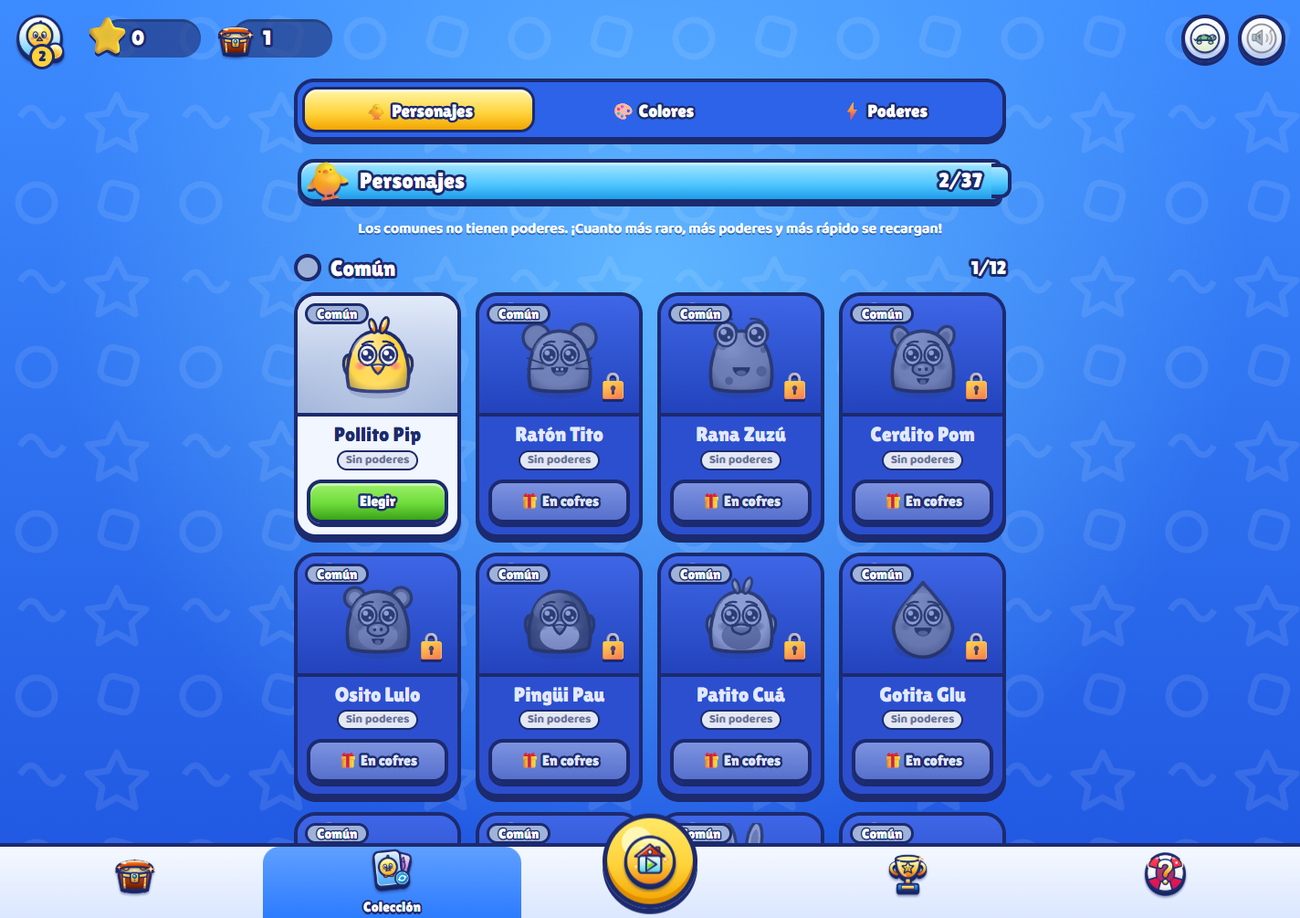
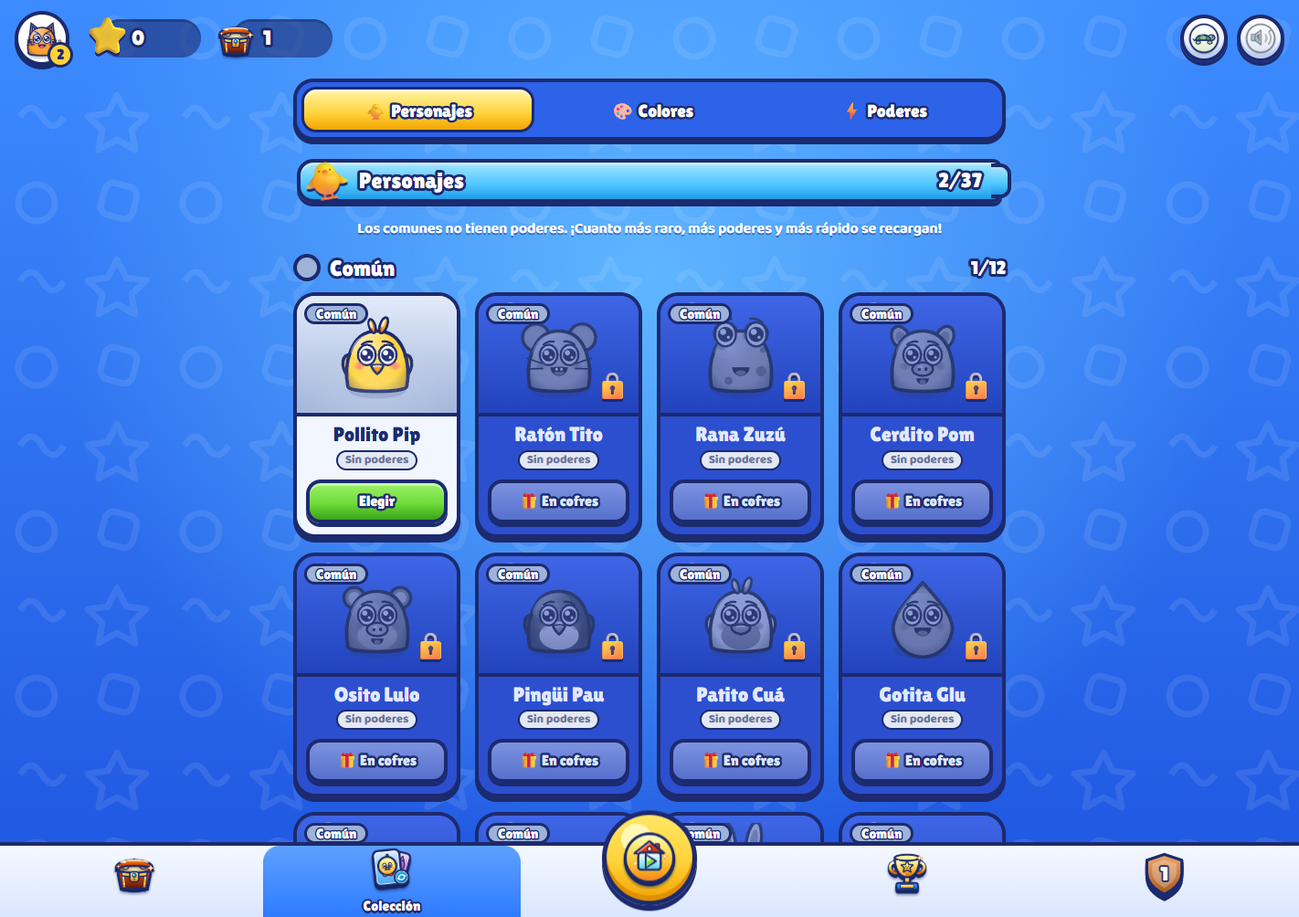
Niveles de personaje, foto de perfil del personaje elegido y ranking con todos los jugadores
- Los personajes raros, épicos, legendarios y míticos suben del nivel 1 al 10 con repetidos de los cofres; cada nivel da un 6 % más de alcance a sus poderes. Una de cada cuatro tiradas con premios nuevos da un repetido que aún puede subir.
- La foto de perfil y la del ranking mundial son el personaje elegido.
- Al abrir el juego con sesión iniciada, el jugador se publica en el ranking; los perfiles anteriores a los rangos empiezan con copas según su historial.
- En línea, el servidor recibe y valida el nivel del personaje.

diff --git a/engine.js b/engine.js
@@ -104,6 +104,9 @@ export const RANKS = [
   { id: 'leyenda', name: 'Leyenda', colors: ['#fff3a0', '#ff4f8b'] }
 ];
 export const TIERS = RANKS.length * 3;
+// Trophies for a profile that played before the ranks existed: victories, catches and its
+// best zone, capped at 1.000 (Esmeralda 1 is 1.056).
+export const startingPoints = p => Math.min(1000, Math.floor(p.wins * 12 + p.totalKills * 2 + p.best));
 export const tierStart = tier => 40 * tier + 4 * tier * tier;
 // { tier, rank, division, name, start, next } for a trophy count; `next` is null at the top.
 export function rankFor(points) {
@@ -142,7 +145,7 @@ export function crossedCells(x0, y0, x1, y1) {
 export const emptyChests = () => Object.fromEntries(Object.keys(CHESTS).map(type => [type, 0]));
 export function freshProfile() {
   // New players start with a rare chest so their first character with a power is one tap away.
-  return { version: 1, name: '', updatedAt: 0, points: 0, bits: 0, xp: 0, wins: 0, totalKills: 0, best: 0, nemesis: '', skin: 'interceptor', trail: 'cyan', skins: [], trails: ['cyan'], easy: false, chests: { ...emptyChests(), raro: 1 }, freeChestAt: 0 };
+  return { version: 1, name: '', updatedAt: 0, points: 0, bits: 0, xp: 0, wins: 0, totalKills: 0, best: 0, nemesis: '', skin: 'interceptor', trail: 'cyan', skins: [], trails: ['cyan'], copies: {}, easy: false, chests: { ...emptyChests(), raro: 1 }, freeChestAt: 0 };
 }
 // Player nicknames: 3 to 14 letters, digits, spaces, "_" or "-". Returns '' when unusable.
 export function cleanName(text) {
@@ -183,8 +186,18 @@ export function parseProfile(raw) {
   const latest = Date.now() + FREE_CHEST_HOURS * 3600000;
   result.freeChestAt = Number.isFinite(data.freeChestAt) && data.freeChestAt > 0 ? Math.min(data.freeChestAt, latest) : 0;
   result.updatedAt = Number.isFinite(data.updatedAt) && data.updatedAt > 0 ? data.updatedAt : 0;
-  // Older saves have no trophies yet.
+  // Repeats collected per character (its level); older saves have none.
+  result.copies = {};
+  if (data.copies !== undefined) {
+    if (typeof data.copies !== 'object' || data.copies === null || Array.isArray(data.copies)) throw new Error('Niveles inválidos');
+    for (const [id, value] of Object.entries(data.copies)) {
+      if (!levelsUp(CHARACTERS.find(c => c.id === id)) || !count(value) || value > 1000) throw new Error('Niveles inválidos');
+      if (value) result.copies[id] = Math.floor(value);
+    }
+  }
+  // Saves from before the ranks start with trophies earned from their past results.
   if (data.points !== undefined) { if (!count(data.points) || data.points > 1e6) throw new Error('Copas inválidas'); result.points = Math.floor(data.points); }
+  else result.points = startingPoints(result);
   return { ...result, name: cleanName(data.name), easy: data.easy === true, nemesis: typeof data.nemesis === 'string' ? data.nemesis.slice(0, 40) : '', skin: data.skin, trail: data.trail };
 }
 // Every chest prize: characters (except the starter) and the special trail colors.
@@ -198,15 +211,42 @@ export function rollRarity(type, random = Math.random) {
   for (const [rarity, weight] of odds) { roll -= weight; if (roll < 0) return rarity; }
   return odds.at(-1)[0];
 }
-// Opens one chest into the profile. Unowned prizes of the rolled rarity are preferred,
-// so players rarely get repeats; a repeat is converted into stars.
+// Character levels: rare, epic, legendary and mythic characters level up (1 → 10) with
+// repeats from chests. Going from level n to n+1 takes ceil(n / 2) repeats (25 in all),
+// and every level stretches the reach of the character's powers by 6%.
+export const CHARACTER_MAX_LEVEL = 10, POWER_STEP = .06;
+// While there are still new prizes of the rolled rarity, this share of chests gives a
+// repeat of an owned character that can still level up.
+export const REPEAT_CHANCE = .25;
+export const levelsUp = character => !!character && character.rarity !== 'comun';
+export const copiesFor = level => { let total = 0; for (let l = 1; l < level; l++) total += Math.ceil(l / 2); return total; };
+export function characterLevel(profile, id) {
+  if (!levelsUp(CHARACTERS.find(c => c.id === id))) return 1;
+  const copies = profile.copies?.[id] || 0;
+  let level = 1;
+  while (level < CHARACTER_MAX_LEVEL && copies >= copiesFor(level + 1)) level++;
+  return level;
+}
+export const powerScale = level => 1 + POWER_STEP * (clamp(Math.floor(level) || 1, 1, CHARACTER_MAX_LEVEL) - 1);
+// Opens one chest into the profile. Unowned prizes of the rolled rarity come first; a repeat
+// of a character that can still level up adds a level step, any other repeat becomes stars.
 export function openChest(profile, type, random = Math.random) {
   const rarity = rollRarity(type, random), pool = PRIZES.filter(p => p.rarity === rarity);
-  const fresh = pool.filter(p => p.type === 'skins' ? !ownsCharacter(profile, p.id) : !profile.trails.includes(p.id));
-  const options = fresh.length ? fresh : pool, prize = options[Math.floor(random() * options.length)];
-  const duplicate = !fresh.length, refund = duplicate ? RARITIES[rarity].refund : 0;
-  if (duplicate) profile.bits += refund; else profile[prize.type].push(prize.id);
-  return { prize, rarity, duplicate, refund };
+  const owned = p => p.type === 'skins' ? ownsCharacter(profile, p.id) : profile.trails.includes(p.id);
+  const growing = p => p.type === 'skins' && levelsUp(p) && owned(p) && characterLevel(profile, p.id) < CHARACTER_MAX_LEVEL;
+  const fresh = pool.filter(p => !owned(p)), repeats = pool.filter(growing);
+  const options = fresh.length && !(repeats.length && random() < REPEAT_CHANCE) ? fresh : repeats.length ? repeats : pool;
+  const prize = options[Math.floor(random() * options.length)];
+  if (!owned(prize)) { profile[prize.type].push(prize.id); return { prize, rarity, duplicate: false, refund: 0 }; }
+  if (growing(prize)) {
+    const before = characterLevel(profile, prize.id);
+    profile.copies = { ...profile.copies, [prize.id]: (profile.copies?.[prize.id] || 0) + 1 };
+    const level = characterLevel(profile, prize.id);
+    return { prize, rarity, duplicate: true, refund: 0, level, levelUp: level > before };
+  }
+  const refund = RARITIES[rarity].refund;
+  profile.bits += refund;
+  return { prize, rarity, duplicate: true, refund };
 }
 // Bots pick distinct characters; rarer ones show up less often.
 const BOT_WEIGHTS = { comun: 40, raro: 30, epico: 18, legendario: 9, mitico: 3 };
@@ -229,7 +269,7 @@ export class Arena {
     this.wallRange = 40 / CELL_PIXELS;
     this.events = []; this.orbs = []; this.projectiles = []; this.time = 0; this.revision = 0; this.orbRevision = 0;
     this.ended = false; this.won = false; this.bits = 0; this.xp = 0; this.respawnAt = 0;
-    const humans = (options.humans || [{ skin: profile.skin, color: TRAILS.find(t => t.id === profile.trail)?.color || COLORS[0], name: 'Tú' }]).slice(0, MAX_PLAYERS);
+    const humans = (options.humans || [{ skin: profile.skin, color: TRAILS.find(t => t.id === profile.trail)?.color || COLORS[0], name: 'Tú', level: characterLevel(profile, profile.skin) }]).slice(0, MAX_PLAYERS);
     const cast = humans.map(h => characterFor(h.skin));
     for (let id = humans.length; id < SPAWNS.length; id++) cast.push(this.botCharacter(cast));
     // Every actor needs a distinct trail color; humans keep theirs unless it is already taken.
@@ -241,7 +281,9 @@ export class Arena {
       x: x + .5, y: y + .5, angle: -Math.PI / 2, desired: -Math.PI / 2,
       alive: true, trail: [], count: 0, kills: 0, best: 0, bits: 0, xp: 0, lastCell: cell(x, y),
       timers: {}, ready: {}, aiAt: 0, route: [], skin: cast[id].id, rarity: cast[id].rarity, powers: [...cast[id].powers],
-      stunUntil: 0, frozenUntil: 0, harvestUntil: 0, lastKiller: -1, wallSurge: false, wallSparkAt: 0
+      stunUntil: 0, frozenUntil: 0, harvestUntil: 0, lastKiller: -1, wallSurge: false, wallSparkAt: 0,
+      // Robots play at level 1; a human's character level stretches its powers.
+      reach: powerScale(id < humans.length ? humans[id].level : 1)
     }));
     for (const actor of this.actors) { this.seed(actor); actor.best = actor.count; }
     for (let i = 0; i < 45; i++) this.spawnOrb();
@@ -278,7 +320,7 @@ export class Arena {
       Object.assign(actor, {
         name: character.name, skin: character.id, rarity: character.rarity, powers: [...character.powers],
         x: spot.x + .5, y: spot.y + .5, angle, desired: angle, alive: true, trail: [], kills: 0, lastCell: cell(spot.x, spot.y),
-        timers: {}, ready: {}, aiAt: 0, route: [], stunUntil: 0, frozenUntil: 0, harvestUntil: 0, wallSurge: false
+        timers: {}, ready: {}, aiAt: 0, route: [], stunUntil: 0, frozenUntil: 0, harvestUntil: 0, wallSurge: false, reach: 1
       });
       this.seed(actor); actor.best = actor.count;
       this.emit('spawn', { id: actor.id, x: actor.x, y: actor.y });
@@ -327,13 +369,14 @@ export class Arena {
     const actor = this.actors[id], definition = POWERS[skill];
     if (!actor?.alive || !definition || this.ended || (actor.ready[skill] || 0) > this.time) return false;
     if (!actor.powers?.includes(skill)) return false;
-    actor.timers[skill] = this.time + definition.duration;
+    const reach = actor.reach || 1;
+    actor.timers[skill] = this.time + definition.duration * (skill === 'dash' || skill === 'shield' || skill === 'ghost' ? reach : 1);
     actor.ready[skill] = this.time + this.cooldown(actor, skill);
     this.emit('ability', { id, skill, x: actor.x, y: actor.y });
-    if (skill === 'shoot') this.projectiles.push({ owner: id, x: clamp(actor.x + Math.cos(actor.angle) * .9, .01, WIDTH - .01), y: clamp(actor.y + Math.sin(actor.angle) * .9, .01, HEIGHT - .01), angle: actor.angle, life: SHOT_LIFE });
-    if (skill === 'bomb') this.splash(actor, cell(actor.x, actor.y), 3.6, 'bomb');
+    if (skill === 'shoot') this.projectiles.push({ owner: id, x: clamp(actor.x + Math.cos(actor.angle) * .9, .01, WIDTH - .01), y: clamp(actor.y + Math.sin(actor.angle) * .9, .01, HEIGHT - .01), angle: actor.angle, life: SHOT_LIFE * reach, paint: SHOT_PAINT * reach });
+    if (skill === 'bomb') this.splash(actor, cell(actor.x, actor.y), 3.6 * reach, 'bomb');
     if (skill === 'freeze') {
-      for (const other of this.actors) if (other !== actor && other.alive && !this.active(other, 'shield') && Math.hypot(other.x - actor.x, other.y - actor.y) < 8) {
+      for (const other of this.actors) if (other !== actor && other.alive && !this.active(other, 'shield') && Math.hypot(other.x - actor.x, other.y - actor.y) < 8 * reach) {
         other.stunUntil = other.frozenUntil = this.time + FREEZE_TIME;
       }
       this.emit('freeze', { id, x: actor.x, y: actor.y });
@@ -443,7 +486,7 @@ export class Arena {
     if (!actor.alive || index === actor.lastCell) return;
     actor.lastCell = index;
     // Rodillo: paint a 3×3 brush directly instead of leaving an exposed trail.
-    if (this.active(actor, 'paint') && this.grid[index] !== actor.id) { this.splash(actor, index, 1.5); return; }
+    if (this.active(actor, 'paint') && this.grid[index] !== actor.id) { this.splash(actor, index, 1.5 * (actor.reach || 1)); return; }
     // Self-crossings are harmless. Masks allow overlapping trails without erasing rivals.
     if (this.grid[index] === actor.id) { if (actor.trail.length) this.capture(actor); }
     else {
@@ -550,7 +593,7 @@ export class Arena {
       if (done) {
         const x = clamp(nx, .01, WIDTH - .01), y = clamp(ny, .01, HEIGHT - .01);
         this.projectiles.splice(i, 1); this.emit('splat', { x, y, color: owner.color });
-        if (owner.alive && !this.ended) this.splash(owner, cell(x, y), SHOT_PAINT, 'shot');
+        if (owner.alive && !this.ended) this.splash(owner, cell(x, y), shot.paint || SHOT_PAINT, 'shot');
       }
       if (this.ended) return;
     }
@@ -592,7 +635,7 @@ export class Arena {
       if (!actor.alive || this.ended) continue;
       for (let i = this.orbs.length - 1; i >= 0; i--) {
         const orb = this.orbs[i], distance = Math.hypot(orb.x - actor.x, orb.y - actor.y);
-        if (this.active(actor, 'magnet') && distance < 14) {
+        if (this.active(actor, 'magnet') && distance < 14 * (actor.reach || 1)) {
           const move = Math.min(distance, dt * 12);
           orb.x += (actor.x - orb.x) / (distance || 1) * move; this.orbRevision++;
           orb.y += (actor.y - orb.y) / (distance || 1) * move;

diff --git a/game.js b/game.js
@@ -1,4 +1,4 @@
-import { Arena, WIDTH, HEIGHT, SIZE, POWERS, CHARACTERS, RARITIES, RARITY_ORDER, CHESTS, FREE_CHEST_HOURS, TRAILS, RANKS, rankFor, rankChange, tierStart, characterFor, ownsCharacter, openChest, freshProfile, parseProfile, cleanName, levelFor, levelXP } from './engine.js';
+import { Arena, WIDTH, HEIGHT, SIZE, POWERS, CHARACTERS, RARITIES, RARITY_ORDER, CHESTS, FREE_CHEST_HOURS, TRAILS, RANKS, rankFor, rankChange, tierStart, CHARACTER_MAX_LEVEL, characterLevel, copiesFor, levelsUp, powerScale, characterFor, ownsCharacter, openChest, freshProfile, parseProfile, cleanName, levelFor, levelXP } from './engine.js';
 import { Renderer, shade } from './renderer.js';
 import { Connection, Mirror, defaultServer, rememberServer, normalizeServer } from './online.js';
 import * as cloud from './cloud.js';
@@ -311,6 +311,17 @@ const COLLECTION = {
   trails: { icon: '🎨', title: 'Colores', note: 'Tu color pinta tu camino y tu zona. ¡Busca más en los cofres!' },
   powers: { icon: '⚡', title: 'Poderes', note: 'Cada personaje trae sus propios poderes. Elige uno con poderes en la pestaña Personajes.' }
 };
+// Level of a rare-or-better character: its level, the repeats towards the next one and the
+// extra reach of its powers.
+function levelInfo(id) {
+  const level = characterLevel(profile, id), copies = profile.copies[id] || 0;
+  return { level, max: level >= CHARACTER_MAX_LEVEL, have: copies - copiesFor(level), need: copiesFor(level + 1) - copiesFor(level), bonus: Math.round((powerScale(level) - 1) * 100) };
+}
+const levelChip = id => `<span class="level-chip">Nv ${characterLevel(profile, id)}</span>`;
+function levelBlock(id) {
+  const info = levelInfo(id);
+  return `<div class="char-level">${levelChip(id)}<div class="copies"><i style="width:${info.max ? 100 : info.have / info.need * 100}%"></i><b>${info.max ? '¡NIVEL MÁXIMO!' : `🧩 ${info.have}/${info.need}`}</b></div>${info.bonus ? `<small>Poderes +${info.bonus}% de alcance</small>` : '<small>Los repetidos lo suben de nivel</small>'}</div>`;
+}
 function renderHangar() {
   const content = [];
   let owned = 0, total = 0;
@@ -321,7 +332,7 @@ function renderHangar() {
     for (const c of group) {
       const unlocked = ownsCharacter(profile, c.id);
       const lock = c.level > 1 ? '🔒 Nivel ' + c.level + ' o cofre' : '🎁 En cofres';
-      content.push(`<article class="hangar-card card rarity-${rarity} ${unlocked ? '' : 'locked'}"><span class="card-badge">${RARITIES[rarity].name}</span><div class="card-art">${skinArt(c.id)}</div><h3>${c.name}</h3><div class="power-list">${powerIcons(c.powers)}</div><div class="card-actions"><button data-skin="${c.id}" ${unlocked ? '' : 'disabled'} class="${profile.skin === c.id ? 'equipped' : ''}">${profile.skin === c.id ? '✓ Elegido' : unlocked ? 'Elegir' : lock}</button></div></article>`);
+      content.push(`<article class="hangar-card card rarity-${rarity} ${unlocked ? '' : 'locked'}"><span class="card-badge">${RARITIES[rarity].name}</span><div class="card-art">${skinArt(c.id)}</div><h3>${c.name}</h3><div class="power-list">${powerIcons(c.powers)}</div>${unlocked && levelsUp(c) ? levelBlock(c.id) : ''}<div class="card-actions"><button data-skin="${c.id}" ${unlocked ? '' : 'disabled'} class="${profile.skin === c.id ? 'equipped' : ''}">${profile.skin === c.id ? '✓ Elegido' : unlocked ? 'Elegir' : lock}</button></div></article>`);
     }
   }
   if (hangarTab === 'trails') for (const trail of TRAILS) {
@@ -357,6 +368,8 @@ function renderMenu() {
   const level = levelFor(profile.xp), start = levelXP(level), end = levelXP(level + 1);
   const xpText = `${number(profile.xp - start)} / ${number(end - start)} XP`, xpWidth = Math.min(100, (profile.xp - start) / (end - start) * 100) + '%';
   $('menu-level').textContent = level;
+  // The profile picture is the character currently chosen.
+  $('menu-avatar').src = renderer.portraitURL({ skin: profile.skin, color: playerColor() });
   $('menu-bits').textContent = number(profile.bits);
   $('menu-crates').textContent = totalChests();
   $('home-level').textContent = level; $('home-xp-label').textContent = xpText; $('home-xp').style.width = xpWidth;
@@ -373,7 +386,7 @@ function renderMenu() {
   $('stat-wins').textContent = number(profile.wins); $('stat-kills').textContent = number(profile.totalKills);
   $('stat-best').textContent = Math.round(profile.best) + '%';
   const current = characterFor(profile.skin);
-  $('home-character').innerHTML = `${rarityChip(current.rarity)} <b>${current.name}</b> <span class="home-powers">${powerIcons(current.powers)}</span>`;
+  $('home-character').innerHTML = `${rarityChip(current.rarity)} <b>${current.name}</b> ${levelsUp(current) ? levelChip(current.id) : ''} <span class="home-powers">${powerIcons(current.powers)}</span>`;
   renderEasy(); renderChests(); renderHangar(); renderAccount(); renderRanks();
 }
 let screen = 'home';
@@ -406,7 +419,7 @@ document.querySelectorAll('[data-hangar]').forEach(button => button.onclick = ()
 // `sequence` ({ left, next, actions, wire, gen }) is used after a match: each reveal moves on to
 // the next chest by itself, and the last one shows the match buttons instead of "close".
 function revealChest(type, sequence = null) {
-  const result = openChest(profile, type), { prize, rarity, duplicate, refund } = result;
+  const result = openChest(profile, type), { prize, rarity, duplicate, refund, level, levelUp } = result;
   save(true); renderMenu();
   dialog(`<div class="crate-reward"><p class="eyebrow">${CHESTS[type].name}</p><div class="crate-opening" id="crate-spinner">${chestSVG(type, 150)}</div><p>¿Qué habrá dentro…?</p></div>`);
   setTimeout(() => {
@@ -414,8 +427,10 @@ function revealChest(type, sequence = null) {
     tone(rarity === 'legendario' || rarity === 'mitico' ? 'level' : 'capture');
     const sparkles = Array.from({ length: 14 }, (_, i) => { const a = i / 14 * Math.PI * 2; return `<i style="--dx:${Math.round(Math.cos(a) * 160)}px;--dy:${Math.round(Math.sin(a) * 120)}px">${i % 2 ? '⭐' : '✨'}</i>`; }).join('');
     const isCharacter = prize.type === 'skins', more = profile.chests[type];
-    const detail = duplicate ? `¡Ya lo tenías! Te damos ${refund} ⭐ a cambio.` : isCharacter ? (prize.powers.length ? '¡Nuevo personaje con poderes!' : '¡Nuevo amigo! Los comunes no tienen poderes, pero son muy simpáticos.') : '¡Ya puedes pintar con este color!';
-    $('dialog-content').innerHTML = `<div class="crate-reward reveal-${rarity}"><div class="sparkles" aria-hidden="true">${sparkles}</div><p class="rarity-banner rarity-${rarity}">¡${RARITIES[rarity].name.toUpperCase()}!</p><div class="crate-opening revealed">${isCharacter ? skinArt(prize.id, 160) : swatchArt(prize.color)}</div><h2>${prize.name}</h2>${isCharacter ? `<div class="power-list">${powerIcons(prize.powers)}</div>` : ''}<p>${detail}</p><div class="dialog-buttons">${isCharacter && !duplicate ? '<button id="equip-prize" class="dialog-button">✓ ¡Usar ahora!</button>' : ''}${sequence ? (sequence.next ? `<button id="next-chest" class="dialog-button">🎁 Siguiente (${sequence.left})</button>` : '') : `${more ? `<button id="open-again" class="dialog-button">🎁 Abrir otro (${more})</button>` : ''}<button id="close-crate" class="dialog-button secondary">¡GENIAL! 🎉</button>`}</div>${sequence && !sequence.next ? sequence.actions : ''}</div>`;
+    const growth = level && levelInfo(prize.id);
+    const detail = duplicate && level ? (levelUp ? `¡Repetido! ${prize.name} sube al nivel ${level} ⬆ Sus poderes llegan un ${growth.bonus}% más lejos.` : `¡Repetido! +1 🧩 para ${prize.name}: ${growth.have}/${growth.need} para el nivel ${level + 1}.`)
+      : duplicate ? `¡Ya lo tenías! Te damos ${refund} ⭐ a cambio.` : isCharacter ? (prize.powers.length ? '¡Nuevo personaje con poderes!' : '¡Nuevo amigo! Los comunes no tienen poderes, pero son muy simpáticos.') : '¡Ya puedes pintar con este color!';
+    $('dialog-content').innerHTML = `<div class="crate-reward reveal-${rarity}"><div class="sparkles" aria-hidden="true">${sparkles}</div><p class="rarity-banner rarity-${rarity}">¡${RARITIES[rarity].name.toUpperCase()}!</p><div class="crate-opening revealed">${isCharacter ? skinArt(prize.id, 160) : swatchArt(prize.color)}</div><h2>${prize.name}</h2>${isCharacter ? `<div class="power-list">${powerIcons(prize.powers)}</div>` : ''}${level ? levelBlock(prize.id) : ''}<p>${detail}</p><div class="dialog-buttons">${isCharacter && !duplicate ? '<button id="equip-prize" class="dialog-button">✓ ¡Usar ahora!</button>' : ''}${sequence ? (sequence.next ? `<button id="next-chest" class="dialog-button">🎁 Siguiente (${sequence.left})</button>` : '') : `${more ? `<button id="open-again" class="dialog-button">🎁 Abrir otro (${more})</button>` : ''}<button id="close-crate" class="dialog-button secondary">¡GENIAL! 🎉</button>`}</div>${sequence && !sequence.next ? sequence.actions : ''}</div>`;
     if (sequence) {
       // The next chest opens by itself after a moment; choosing a character waits for a tap.
       let advance = 0;
@@ -798,7 +813,8 @@ function renderRanks() {
     : `<ol class="world-ranking">${leaderboard.rows.map((row, i) => {
         // Names come from other players' devices: only cleaned text reaches the page.
         const points = Math.max(0, Math.floor(Number(row.points) || 0)), me = account && row.uid === account.uid;
-        return `<li class="${me ? 'me' : ''}"><span class="place">${i + 1}</span>${rankBadge(rankFor(points).tier, 38)}<b>${cleanName(row.name) || 'Jugador'}${me ? ' (tú)' : ''}</b><span class="points">${number(points)} 🏆</span></li>`;
+        const skin = CHARACTERS.some(c => c.id === row.skin) ? row.skin : 'interceptor';
+        return `<li class="${me ? 'me' : ''}"><span class="place">${i + 1}</span><img class="rank-avatar" src="${renderer.portraitURL({ skin, color: '#2fa8ff' }, 40)}" alt="">${rankBadge(rankFor(points).tier, 38)}<b>${cleanName(row.name) || 'Jugador'}${me ? ' (tú)' : ''}</b><span class="points">${number(points)} 🏆</span></li>`;
       }).join('')}</ol>`;
   $('rank-list').innerHTML = join + body;
   if ($('rank-login')) $('rank-login').onclick = openAccount;
@@ -910,7 +926,10 @@ async function restoreAccount() {
   if (!cloud.available) return;
   try { account = await cloud.currentAccount(); } catch { account = null; }
   renderAccount();
-  if (account) await syncWithCloud(false);
+  if (!account) return;
+  await syncWithCloud(false);
+  // Every signed-in player who opens the game appears in the world ranking, even before playing.
+  publishRank();
 }
 
 // ---------- Online play ----------
@@ -948,7 +967,8 @@ async function joinOnline(kind, code = '') {
   }
   online.private = kind !== 'quick'; online.lobby = null;
   const character = characterFor(profile.skin);
-  online.connection.send({ t: kind, code, name: profile.name, skin: ownsCharacter(profile, character.id) ? character.id : 'interceptor', color: playerColor(), easy: profile.easy === true });
+  const skin = ownsCharacter(profile, character.id) ? character.id : 'interceptor';
+  online.connection.send({ t: kind, code, name: profile.name, level: characterLevel(profile, skin), skin, color: playerColor(), easy: profile.easy === true });
 }
 function disconnect() {
   if (!online) return;

diff --git a/tests/engine.test.js b/tests/engine.test.js
@@ -1,6 +1,6 @@
 import test from 'node:test';
 import assert from 'node:assert/strict';
-import { Arena, WIDTH, SIZE, COLORS, cell, coords, crossedCells, freshProfile, parseProfile, cleanName, levelFor, levelXP, CHARACTERS, POWERS, CHESTS, RARITIES, PRIZES, rollRarity, openChest, RANKS, TIERS, tierStart, rankFor, rankChange } from '../engine.js';
+import { Arena, WIDTH, SIZE, COLORS, cell, coords, crossedCells, freshProfile, parseProfile, cleanName, levelFor, levelXP, CHARACTERS, POWERS, CHESTS, RARITIES, PRIZES, rollRarity, openChest, RANKS, TIERS, tierStart, rankFor, rankChange, CHARACTER_MAX_LEVEL, characterLevel, copiesFor, levelsUp, powerScale } from '../engine.js';
 import { Renderer } from '../renderer.js';
 
 function clean(arena = new Arena()) {
@@ -228,6 +228,36 @@ test('chests roll their rarity table, prefer new prizes and refund repeats with 
   const before = profile.bits, repeat = openChest(profile, 'comun', () => 0);
   assert.ok(repeat.duplicate); assert.equal(profile.bits - before, RARITIES.comun.refund);
 });
+test('rare and better characters level up with repeats, up to level 10', () => {
+  assert.equal(copiesFor(1), 0); assert.equal(copiesFor(2), 1); assert.equal(copiesFor(3), 2); assert.equal(copiesFor(CHARACTER_MAX_LEVEL), 25);
+  const profile = freshProfile();
+  profile.skins = ['abeja']; // a rare character (Imán)
+  assert.equal(characterLevel(profile, 'abeja'), 1);
+  // Rare chest, rare rarity; the second roll (< REPEAT_CHANCE) asks for a repeat.
+  const rolls = [.5, 0, 0]; let r = 0;
+  const repeat = openChest(profile, 'raro', () => rolls[r++ % rolls.length]);
+  assert.ok(repeat.duplicate && repeat.prize.id === 'abeja' && repeat.levelUp && repeat.level === 2, JSON.stringify(repeat));
+  assert.equal(profile.copies.abeja, 1); assert.equal(characterLevel(profile, 'abeja'), 2);
+  profile.copies.abeja = copiesFor(CHARACTER_MAX_LEVEL);
+  assert.equal(characterLevel(profile, 'abeja'), CHARACTER_MAX_LEVEL);
+  // At the top level a repeat turns into stars again; commons never level up.
+  assert.equal(characterLevel(profile, 'interceptor'), 1); assert.equal(levelsUp(CHARACTERS.find(c => c.id === 'interceptor')), false);
+  // Each level stretches the reach of the powers by 6%.
+  assert.equal(powerScale(1), 1); assert.ok(Math.abs(powerScale(10) - 1.54) < 1e-9);
+  assert.deepEqual(parseProfile(JSON.stringify(profile)).copies, { abeja: 25 });
+  assert.throws(() => parseProfile(JSON.stringify({ ...profile, copies: { interceptor: 2 } })), 'commons cannot have levels');
+});
+test('a higher character level reaches further: bigger bomb, longer shot', () => {
+  const bombed = level => {
+    const profile = Object.assign(freshProfile(), { skins: ['fenix'], skin: 'fenix', copies: { fenix: copiesFor(level) } });
+    const arena = clean(new Arena(profile)), actor = arena.actors[0];
+    actor.x = 40.5; actor.y = 40.5; arena.ability(0, 'bomb');
+    return { cells: actor.count, shot: (arena.ability(0, 'shoot'), arena.projectiles[0].life) };
+  };
+  const low = bombed(1), high = bombed(CHARACTER_MAX_LEVEL);
+  assert.ok(high.cells > low.cells * 1.5, `level 10 bomb paints more: ${low.cells} → ${high.cells}`);
+  assert.ok(high.shot > low.shot, 'level 10 shots fly further');
+});
 test('solo: more than half is a victory, but the match only ends at 100% or when caught', () => {
   const arena = clean();
   for (let i = 0; i < SIZE / 2; i++) arena.assign(i, 0);
@@ -294,6 +324,11 @@ test('ranks: 10 ranks with 3 divisions, trophies per match never below zero', ()
   assert.ok(rankChange({ stars: 0 }) < 0); assert.ok(rankChange({ stars: 3, kills: 2 }) > rankChange({ stars: 1 }));
   assert.equal(rankChange({ stars: 3, perfect: true }) - rankChange({ stars: 3 }), 20);
   assert.equal(rankChange({ stars: 1, place: 1, players: 7 }) - rankChange({ stars: 1 }), 8);
+  // A save from before the ranks starts with trophies from its past results.
+  const veteran = { ...freshProfile(), wins: 10, totalKills: 30, best: 42.5 }; delete veteran.points;
+  assert.equal(parseProfile(JSON.stringify(veteran)).points, 10 * 12 + 30 * 2 + 42);
+  assert.equal(parseProfile(JSON.stringify({ ...veteran, wins: 999 })).points, 1000, 'capped');
+  assert.equal(freshProfile().points, 0, 'new players start at zero');
   const profile = Object.assign(freshProfile(), { points: 321 });
   assert.equal(parseProfile(JSON.stringify(profile)).points, 321);
   assert.throws(() => parseProfile(JSON.stringify({ ...profile, points: -5 })));

diff --git a/styles.css b/styles.css
@@ -538,10 +538,6 @@ body.spectating .abilities { display:none!important }
 .side-badge>span .ui-icon { width:82%; height:82% }
 .play-button.home span .ui-icon { width:62px; height:62px }
 #sound[aria-pressed="false"] .ui-icon { filter:grayscale(.8); opacity:.55 }
-/* The level art is already a bubble: no frame; the real level covers the number drawn on it. */
-.level-badge { border:0; background:none; box-shadow:none }
-.level-badge img { border-radius:0; filter:drop-shadow(0 3px 0 var(--ink)) }
-.level-badge span { left:50%; right:auto; bottom:-4px; transform:translateX(-50%) }
 @media(orientation:landscape) and (max-height:560px) { .play-button.home span .ui-icon { width:50px; height:50px } }
 
 /* Always landscape: a phone held upright in a browser gets the whole game turned 90°
@@ -583,3 +579,13 @@ body.in-match { touch-action:none; overscroll-behavior:none }
   .rank-hero { margin-top:4px } .rank-emblem svg { width:80px; height:80px } .rank-info>b { font-size:26px }
   .ladder-tier svg { width:42px; height:42px } .ladder-tier b { font-size:14px }
 }
+
+/* Character levels (rare and better): level chip, repeats towards the next level, extra reach */
+.level-chip { display:inline-block; padding:0 8px; border:3px solid var(--ink); border-radius:99px; background:linear-gradient(#fff6a8,var(--yellow)); font:14px/20px var(--display); color:var(--ink); -webkit-text-stroke:0; vertical-align:middle }
+.char-level { display:flex; flex-direction:column; align-items:center; gap:3px; margin:4px 8px 0 }
+.char-level .copies { position:relative; width:100%; max-width:150px; height:20px; border:3px solid var(--ink); border-radius:99px; background:#1d2a8c; overflow:hidden }
+.char-level .copies i { display:block; height:100%; background:linear-gradient(#8ff067,#43c41f) }
+.char-level .copies b { position:absolute; inset:0; display:grid; place-items:center; font:12px var(--display); color:#fff; -webkit-text-stroke:3px var(--ink); paint-order:stroke fill }
+.char-level small { font-size:12px; font-weight:800; opacity:.85 }
+.crate-reward .char-level small { color:#fff; opacity:1 }
+.rank-avatar { flex:none; width:40px; height:40px; border:3px solid var(--ink); border-radius:50%; background:#e8f0ff }

diff --git a/index.html b/index.html
@@ -45,7 +45,7 @@
   </div>
   <main id="menu" class="menu">
     <header class="topbar">
-      <button class="level-badge" data-tab="progress" aria-label="Ver mi progreso"><img class="ui-icon" src="ui/level.png" alt=""><span id="menu-level">1</span></button>
+      <button class="level-badge" data-tab="progress" aria-label="Ver mi progreso"><img id="menu-avatar" alt=""><span id="menu-level">1</span></button>
       <div class="currency"><span class="currency-icon" aria-hidden="true">⭐</span><strong id="menu-bits">0</strong></div>
       <div class="currency"><span class="currency-icon" aria-hidden="true"><img class="ui-icon" src="ui/chest.png" alt=""></span><strong id="menu-crates">0</strong></div>
       <div class="topbar-actions">

diff --git a/README.md b/README.md
@@ -67,6 +67,17 @@ Hay 37 personajes dibujados por código (`CHARACTERS` en `engine.js`): 12 comune
 
 Los bots también reciben personajes al azar (los raros aparecen menos) y usan sus poderes. En modo fácil solo salen comunes y raros, y nunca disparan ni congelan. Turbo y Wall Surge se combinan: ×1,6 ×1,35 = ×2,16. Recoger una estrella da 4 Bits, 2 XP y un borde extra de una celda en los cierres durante 10 segundos.
 
+## Niveles de personaje
+
+Los personajes **raros, épicos, legendarios y míticos** suben de nivel, del 1 al 10, con los repetidos que salen en los cofres (`characterLevel` y `copiesFor` en `engine.js`). Para pasar del nivel *n* al *n*+1 hacen falta ⌈*n*/2⌉ repetidos: 25 en total hasta el nivel 10. Cada nivel aumenta un **6 % el alcance** de sus poderes (+54 % en el nivel 10):
+
+- Distancia: alcance del Disparo y de su pintura, radio de la Bomba, de Congelar, del Imán y del pincel del Rodillo.
+- Duración, en los poderes sin distancia: Turbo, Burbuja y Fantasma.
+
+Mientras queden premios nuevos en la rareza sorteada, 1 de cada 4 cofres da un repetido de un personaje tuyo que aún pueda subir. Los comunes no suben de nivel; sus repetidos, igual que los de un personaje en el nivel 10 o los de un color, se devuelven en estrellas. Los robots juegan siempre a nivel 1. En línea, el teléfono envía el nivel y el servidor solo acepta valores del 1 al 10. La colección muestra el nivel, los repetidos que faltan y el alcance extra.
+
+La foto de perfil (arriba a la izquierda y en el ranking mundial) es el personaje elegido en ese momento.
+
 ## Cofres
 
 | Cofre | Precio | Común | Raro | Épico | Legendario | Mítico |
@@ -90,11 +101,11 @@ Gato Rayo se regala en el nivel 2, Platillo Zum en el 5 y Dragoncito en el 10 (t
 
 ## Rangos y ranking mundial
 
-Cada partida da o quita **copas 🏆** (`rankChange` en `engine.js`): −6 sin estrellas; +4, +10 o +18 con 1, 2 o 3 estrellas; +2 por cada rival atrapado (hasta 5); +20 por pintar todo el mapa. En línea, además, +8 al primero, +3 del 2.º al 3.º y −3 al último. Las copas nunca bajan de cero.
+Cada partida da o quita **copas 🏆** (`rankChange` en `engine.js`): −6 sin estrellas; +4, +10 o +18 con 1, 2 o 3 estrellas; +2 por cada rival atrapado (hasta 5); +20 por pintar todo el mapa. En línea, además, +8 al primero, +3 del 2.º al 3.º y −3 al último. Las copas nunca bajan de cero. Los perfiles de antes de los rangos empiezan con copas según lo que ya habían conseguido (`startingPoints`: 12 por victoria, 2 por rival atrapado y el porcentaje de su mejor zona, como mucho 1.000).
 
 Hay **10 rangos con 3 niveles cada uno** (30 en total): Bronce, Plata, Oro, Platino, Esmeralda, Rubí, Diamante, Maestro, Gran Maestro y Leyenda, del 1 al 3. Cada nivel empieza en `40·n + 4·n²` copas (Bronce 2 en 44, Plata 1 en 156, Leyenda 3 en 4.524), así que cada uno pide un poco más que el anterior. Los emblemas son escudos SVG dibujados por código, con corona a partir de Maestro.
 
-La pestaña **Rangos** muestra tu emblema, el avance al siguiente nivel, la escalera completa y el **ranking mundial**: los 50 jugadores con más copas. Para aparecer en él hay que entrar con Google. Cada jugador tiene una fila pública en Firestore, `ranking/{uid}` (nombre, copas y personaje), que se actualiza al terminar cada partida. Las reglas de `firestore.rules` dejan leerla a cualquiera y escribir solo la propia. Como las copas se calculan en el teléfono, alguien con conocimientos podría inflarlas; para evitarlo habría que calcularlas en el servidor.
+La pestaña **Rangos** muestra tu emblema, el avance al siguiente nivel, la escalera completa y el **ranking mundial**: los 50 jugadores con más copas. Para aparecer en él hay que entrar con Google. Cada jugador tiene una fila pública en Firestore, `ranking/{uid}` (nombre, copas y personaje), que se actualiza al abrir el juego con la sesión iniciada, al cambiar de nombre y al terminar cada partida. Quien nunca ha entrado con Google no tiene fila: en Firestore solo existen los jugadores con cuenta. Las reglas de `firestore.rules` dejan leerla a cualquiera y escribir solo la propia. Como las copas se calculan en el teléfono, alguien con conocimientos podría inflarlas; para evitarlo habría que calcularlas en el servidor.
 
 ## Música
 
